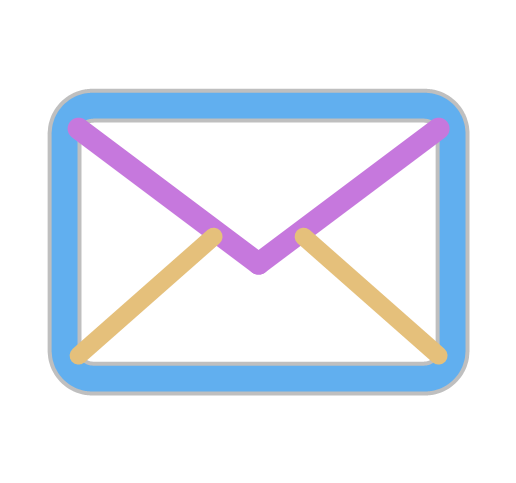
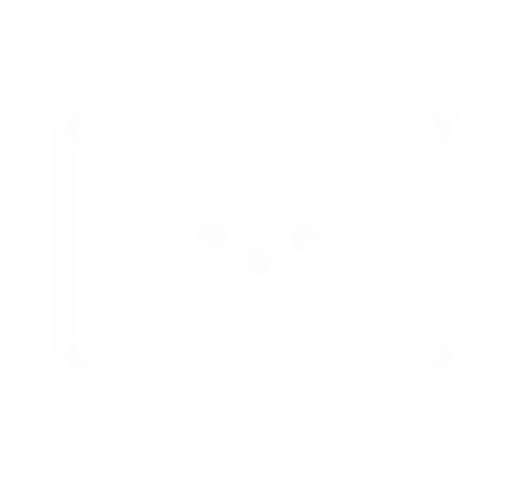
resize

Changed region(s): [[0.093, 0.1863, 0.9302, 0.8385]]

diff --git a/style.css b/style.css
@@ -422,8 +422,8 @@ main {
 	transform: scale(1.04);
 }
 .mail {
-	width: 60px;
-	height: 60px;
+	width: 40px;
+	height: 40px;
 
 	display: block;
 	object-fit: contain;